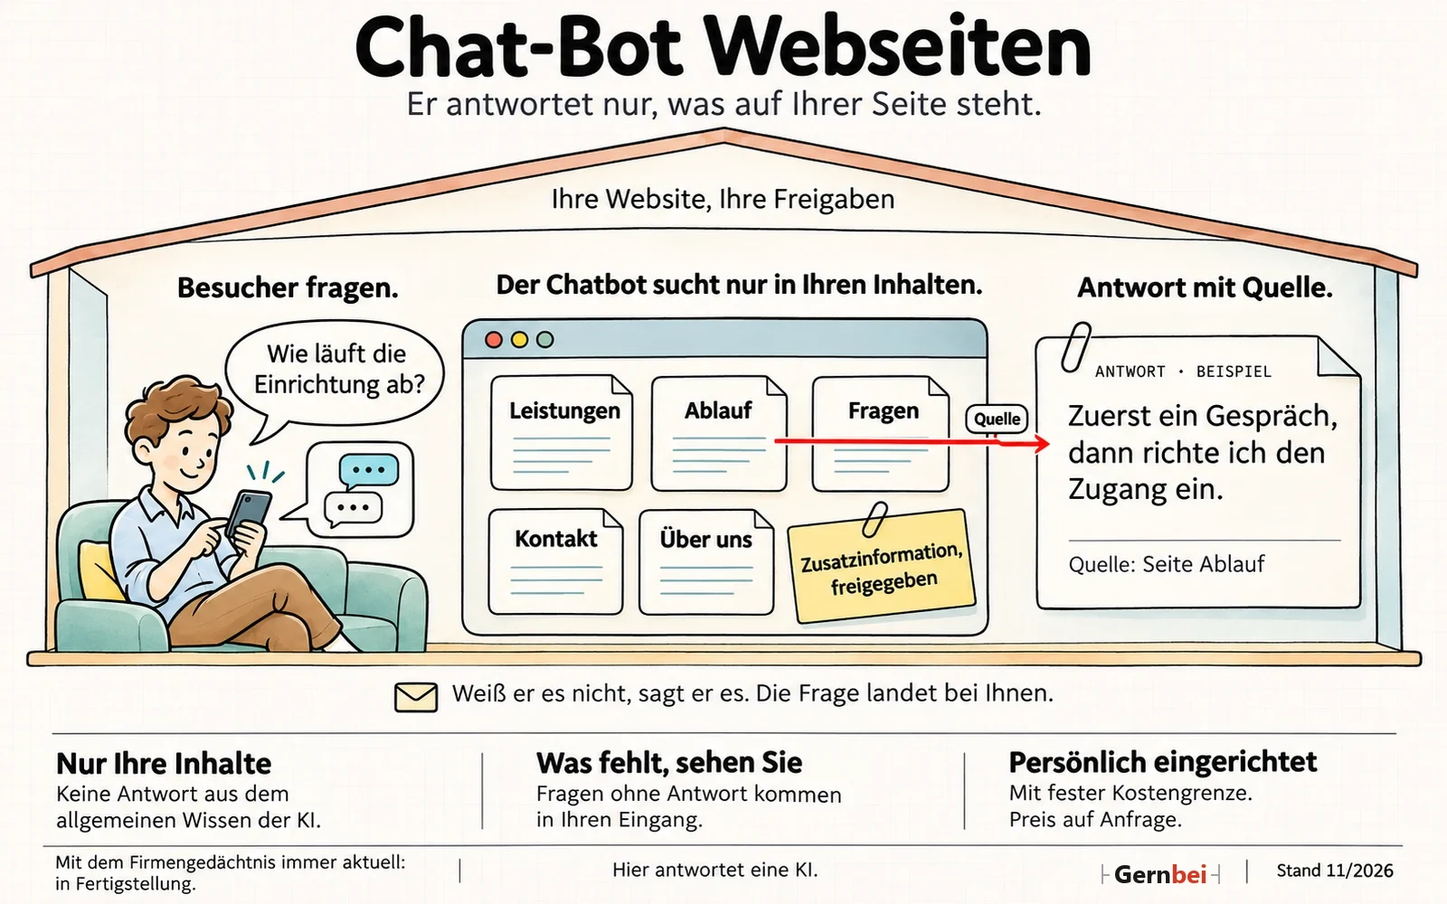
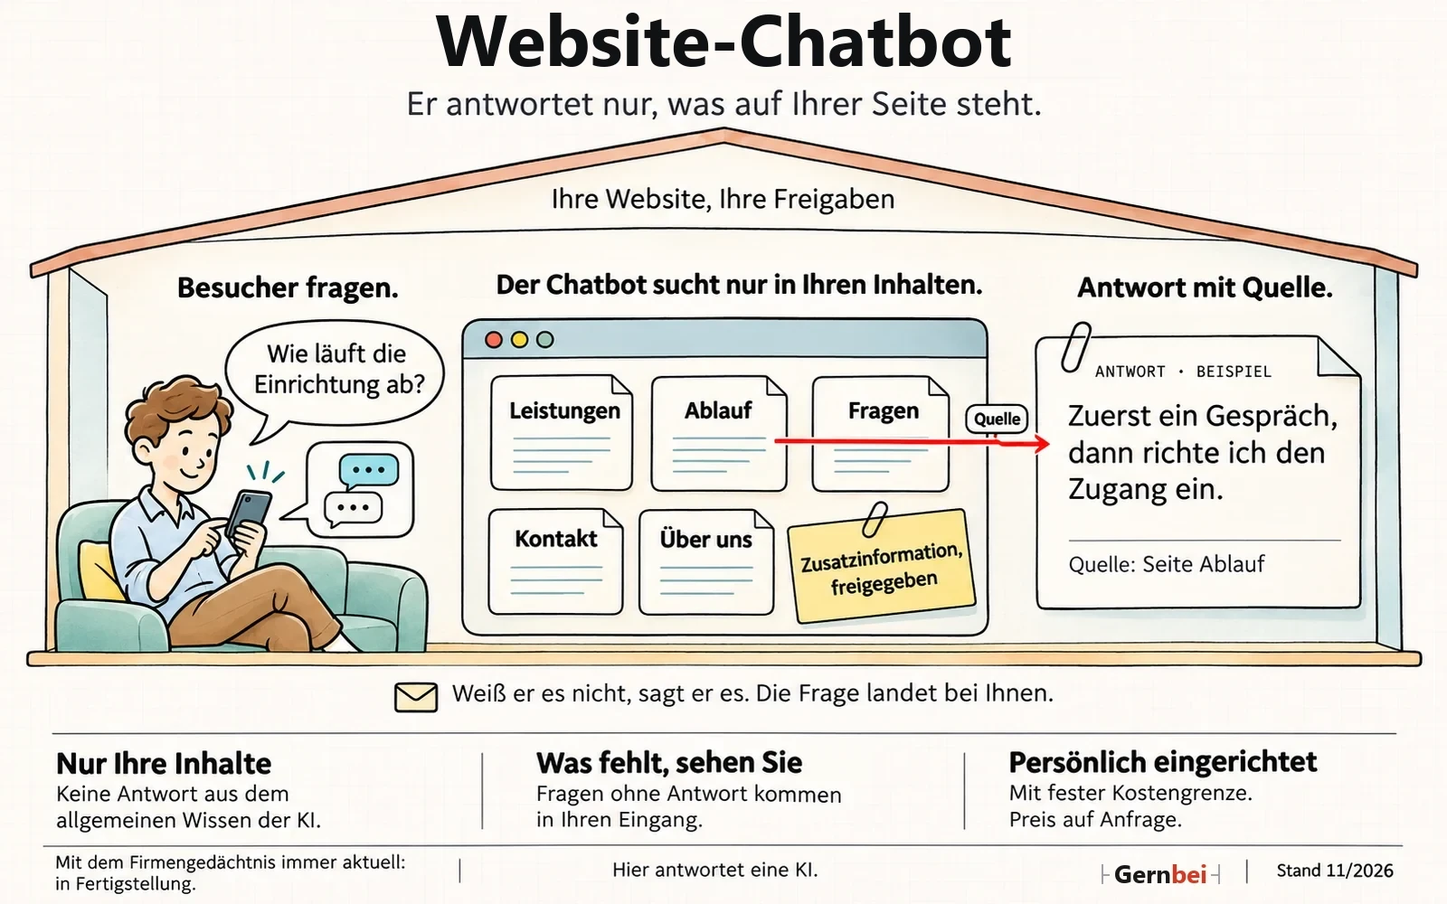
Website-Chatbot statt Chat-Bot Webseiten, SEO fuer alle Seiten (Kurt 12.11.2026: Chatbot gemaess Vorschlag, gleich die SEO verbessern)
Name auf Startseite, Chatbot- und Telefonseite, Titel im Systembild neu gesetzt.
SEO: Titel je Seite mit Suchbegriff und hoechstens 60 Zeichen, Beschreibung je Seite um 150 Zeichen,
neu fuer Rechner, Impressum, Datenschutz; canonical, Open Graph mit Vorschaubild 1200x630 aus dem
Sonnenhof-Gespraech, Twitter-Karte; strukturierte Daten: Betrieb (ProfessionalService) und WebSite
auf der Startseite, Service auf den fuenf Produktseiten, ohne Preise. sitemap.xml und robots.txt neu.
Geprueft: JSON-LD gueltig, Tags ausgeglichen, kein alter Name, Seiten bei 1280 und 375 Pixeln.
Nicht gepusht.

Changed region(s): [[0.2188, 0.0, 0.75, 0.093]]

diff --git a/chatbot.html b/chatbot.html
@@ -3,12 +3,24 @@
 <head>
 <meta charset="UTF-8">
 <meta name="viewport" content="width=device-width, initial-scale=1.0">
-<title>Chat-Bot Webseiten | Gernbei</title>
-<meta name="description" content="Ein Chatbot für Ihre Website, der nur aus Ihren Inhalten antwortet, jede Antwort mit Quelle. Bei einer neuen Frage nennt er Ihren Kontakt. Persönlich eingerichtet von Kurt König aus Würzburg.">
+<title>Website-Chatbot mit Antworten aus Ihren Inhalten | Gernbei</title>
+<meta name="description" content="Ein Chatbot für Ihre Website, der aus Ihren Inhalten antwortet, jede Antwort mit Quelle. Neue Fragen landen bei Ihnen. Persönlich eingerichtet aus Würzburg.">
+<link rel="canonical" href="https://gernbei.de/chatbot.html">
+<meta property="og:type" content="website">
+<meta property="og:locale" content="de_DE">
+<meta property="og:site_name" content="Gernbei">
+<meta property="og:title" content="Website-Chatbot mit Antworten aus Ihren Inhalten | Gernbei">
+<meta property="og:description" content="Ein Chatbot für Ihre Website, der aus Ihren Inhalten antwortet, jede Antwort mit Quelle. Neue Fragen landen bei Ihnen. Persönlich eingerichtet aus Würzburg.">
+<meta property="og:url" content="https://gernbei.de/chatbot.html">
+<meta property="og:image" content="https://gernbei.de/bilder/og-gernbei.jpg">
+<meta property="og:image:width" content="1200">
+<meta property="og:image:height" content="630">
+<meta name="twitter:card" content="summary_large_image">
+<script type="application/ld+json">{"@context": "https://schema.org", "@graph": [{"@type": "Service", "name": "Website-Chatbot", "serviceType": "Chatbot für Websites", "description": "Beantwortet Besucherfragen aus den Inhalten Ihrer Website, mit Quelle.", "provider": {"@id": "https://gernbei.de/#betrieb"}, "areaServed": "DE"}]}</script>
 <link rel="icon" href="favicon.svg" type="image/svg+xml">
 <link rel="stylesheet" href="haus.css">
 <style>
-/* Paar Chat-Bot Webseiten und KI-Telefonassistent, Entwurf 07.11.2026 */
+/* Paar Website-Chatbot und KI-Telefonassistent, Entwurf 07.11.2026 */
 .paar{display:flex;flex-wrap:wrap;gap:8px;margin:0 0 18px}
 .paar a{font-family:var(--mono);font-size:12px;letter-spacing:.04em;padding:6px 12px;border:1px solid var(--tinte);color:var(--tinte);text-decoration:none;background:#fff}
 .paar a[aria-current]{background:var(--tinte);color:#fff}
@@ -31,8 +43,8 @@
 <header class="hero mit-szene" id="top"><div class="wrap"><div class="raster">
   <div>
     <p class="ueber">Für Ihre Kunden · auf Ihrer Website</p>
-    <nav class="paar" aria-label="Für Ihre Kunden"><a href="chatbot.html" aria-current="page">Chat-Bot Webseiten</a><a href="telefon.html">KI-Telefonassistent</a></nav>
-    <h1>Chat-Bot Webseiten.</h1>
+    <nav class="paar" aria-label="Für Ihre Kunden"><a href="chatbot.html" aria-current="page">Website-Chatbot</a><a href="telefon.html">KI-Telefonassistent</a></nav>
+    <h1>Website-Chatbot.</h1>
     <p class="hand">Er antwortet nur, was auf Ihrer Seite steht.</p>
     <p class="lead dunkler" style="font-size:clamp(19px,2.1vw,23px);line-height:1.4">Ihre Besucher fragen in ganzen Sätzen, am Handy oder am Rechner. Der Chatbot antwortet aus Ihrer Website und aus dem, was Sie zusätzlich freigeben, und nennt die Seite, von der die Antwort stammt. Bei einer neuen Frage nennt er Ihren Kontakt.</p>
     <div class="knoepfe"><a class="knopf" href="index.html#kontakt">Preis anfragen</a><a class="knopf hell" href="#ausprobieren">Selbst ausprobieren</a></div>
@@ -84,7 +96,7 @@
   <p class="tafel-zeile" style="margin:16px auto 0;max-width:56rem"><b>Zwei Ausführungen:</b> Standard antwortet aus Ihrer Website und Ihren Freigaben. Professionell, zusammen mit dem Firmengedächtnis, bleibt von selbst aktuell und schlägt Antworten aus Ihrem internen Wissen vor: in Fertigstellung.</p>
   <details class="mehr" style="max-width:56rem;margin:24px auto 0">
     <summary>Im Überblick als Bild</summary>
-    <div class="mehr-inhalt"><div class="schirm"><a href="bilder/chatbot-webseiten-systembild.webp" title="Bild groß ansehen"><img src="bilder/chatbot-webseiten-systembild.webp" alt="Chat-Bot Webseiten im Überblick: Besucher fragen, der Chatbot sucht nur in Ihren Inhalten, Antwort mit Quelle" width="1600" height="1000" loading="lazy"></a></div></div>
+    <div class="mehr-inhalt"><div class="schirm"><a href="bilder/chatbot-webseiten-systembild.webp" title="Bild groß ansehen"><img src="bilder/chatbot-webseiten-systembild.webp" alt="Website-Chatbot im Überblick: Besucher fragen, der Chatbot sucht nur in Ihren Inhalten, Antwort mit Quelle" width="1600" height="1000" loading="lazy"></a></div></div>
   </details>
 </div></section>
 

diff --git a/telefon.html b/telefon.html
@@ -3,12 +3,24 @@
 <head>
 <meta charset="UTF-8">
 <meta name="viewport" content="width=device-width, initial-scale=1.0">
-<title>KI-Telefonassistent | Gernbei</title>
-<meta name="description" content="Der KI-Telefonassistent nimmt ab, während Sie beim Kunden sind. Er sagt zuerst, dass er eine KI ist, beantwortet Fragen aus Ihren Inhalten und nimmt Rückrufwünsche auf. Im Probebetrieb, für Ihren Betrieb auf Anfrage.">
+<title>KI-Telefonassistent für kleine Betriebe | Gernbei</title>
+<meta name="description" content="Der KI-Telefonassistent nimmt ab, während Sie beim Kunden sind. Er sagt, dass er eine KI ist, antwortet aus Ihren Inhalten und nimmt Rückrufwünsche auf.">
+<link rel="canonical" href="https://gernbei.de/telefon.html">
+<meta property="og:type" content="website">
+<meta property="og:locale" content="de_DE">
+<meta property="og:site_name" content="Gernbei">
+<meta property="og:title" content="KI-Telefonassistent für kleine Betriebe | Gernbei">
+<meta property="og:description" content="Der KI-Telefonassistent nimmt ab, während Sie beim Kunden sind. Er sagt, dass er eine KI ist, antwortet aus Ihren Inhalten und nimmt Rückrufwünsche auf.">
+<meta property="og:url" content="https://gernbei.de/telefon.html">
+<meta property="og:image" content="https://gernbei.de/bilder/og-gernbei.jpg">
+<meta property="og:image:width" content="1200">
+<meta property="og:image:height" content="630">
+<meta name="twitter:card" content="summary_large_image">
+<script type="application/ld+json">{"@context": "https://schema.org", "@graph": [{"@type": "Service", "name": "KI-Telefonassistent", "serviceType": "Telefonassistent mit KI", "description": "Nimmt Anrufe an, beantwortet Fragen aus Ihren Inhalten und nimmt Rückrufwünsche auf. Im Probebetrieb.", "provider": {"@id": "https://gernbei.de/#betrieb"}, "areaServed": "DE"}]}</script>
 <link rel="icon" href="favicon.svg" type="image/svg+xml">
 <link rel="stylesheet" href="haus.css">
 <style>
-/* Paar Chat-Bot Webseiten und KI-Telefonassistent, Entwurf 07.11.2026 */
+/* Paar Website-Chatbot und KI-Telefonassistent, Entwurf 07.11.2026 */
 .paar{display:flex;flex-wrap:wrap;gap:8px;margin:0 0 18px}
 .paar a{font-family:var(--mono);font-size:12px;letter-spacing:.04em;padding:6px 12px;border:1px solid var(--tinte);color:var(--tinte);text-decoration:none;background:#fff}
 .paar a[aria-current]{background:var(--tinte);color:#fff}
@@ -35,7 +47,7 @@
 <header class="hero mit-szene" id="top"><div class="wrap"><div class="raster">
   <div>
     <p class="ueber">Für Ihre Kunden · am Telefon</p>
-    <nav class="paar" aria-label="Für Ihre Kunden"><a href="chatbot.html">Chat-Bot Webseiten</a><a href="telefon.html" aria-current="page">KI-Telefonassistent</a></nav>
+    <nav class="paar" aria-label="Für Ihre Kunden"><a href="chatbot.html">Website-Chatbot</a><a href="telefon.html" aria-current="page">KI-Telefonassistent</a></nav>
     <h1>KI-Telefonassistent.</h1>
     <p class="hand">Er nimmt ab, während Sie beim Kunden sind.</p>
     <p class="lead dunkler" style="font-size:clamp(19px,2.1vw,23px);line-height:1.4">Er sagt zuerst, dass er eine KI ist, beantwortet Fragen aus den Inhalten Ihrer Website und nimmt Rückrufwünsche auf. Die Nummer liest er zur Kontrolle Ziffer für Ziffer vor. Den Rückrufwunsch sehen Sie mit Anliegen, Nummer und Wunschzeit.</p>
@@ -119,7 +131,7 @@
     <small>Offen gesagt</small>
     <p>Er läuft heute im Probebetrieb bei uns selbst. Weiterverbinden an Ihr Handy und die Meldung aufs Handy sind in Fertigstellung. Die Sprache verarbeiten amerikanische Anbieter. Gespeichert wird allein der Rückrufwunsch.</p>
   </div>
-  <p class="tafel-zeile" style="max-width:52rem">Für jede Firma mit Website, für sich allein oder zusammen mit Gernbei für Ihren Betrieb. Zusammen mit <a href="chatbot.html">Chat-Bot Webseiten</a> antwortet er aus denselben Inhalten, geschrieben und gesprochen.</p>
+  <p class="tafel-zeile" style="max-width:52rem">Für jede Firma mit Website, für sich allein oder zusammen mit Gernbei für Ihren Betrieb. Zusammen mit dem <a href="chatbot.html">Website-Chatbot</a> antwortet er aus denselben Inhalten, geschrieben und gesprochen.</p>
 </div></section>
 
 <footer class="fuss"><div class="wrap">

diff --git a/index.html b/index.html
@@ -3,8 +3,20 @@
 <head>
 <meta charset="UTF-8">
 <meta name="viewport" content="width=device-width, initial-scale=1.0">
-<title>Gernbei | Ihre KI-Assistenz, persönlich eingerichtet aus Würzburg</title>
-<meta name="description" content="Eine Assistenz, die Ihre Vorgänge kennt, Ihre Schreiben vorbereitet und sagt, woher sie es weiß. Für Handwerk, Dienstleister und Firmen, eingerichtet von Kurt König aus Würzburg.">
+<title>KI-Assistenz für Handwerk und Büro aus Würzburg | Gernbei</title>
+<meta name="description" content="Gernbei bereitet Angebote und Antworten vor und findet Ihr Firmenwissen wieder. Für Handwerk, Dienstleister und kleine Teams, eingerichtet aus Würzburg.">
+<link rel="canonical" href="https://gernbei.de/">
+<meta property="og:type" content="website">
+<meta property="og:locale" content="de_DE">
+<meta property="og:site_name" content="Gernbei">
+<meta property="og:title" content="KI-Assistenz für Handwerk und Büro aus Würzburg | Gernbei">
+<meta property="og:description" content="Gernbei bereitet Angebote und Antworten vor und findet Ihr Firmenwissen wieder. Für Handwerk, Dienstleister und kleine Teams, eingerichtet aus Würzburg.">
+<meta property="og:url" content="https://gernbei.de/">
+<meta property="og:image" content="https://gernbei.de/bilder/og-gernbei.jpg">
+<meta property="og:image:width" content="1200">
+<meta property="og:image:height" content="630">
+<meta name="twitter:card" content="summary_large_image">
+<script type="application/ld+json">{"@context": "https://schema.org", "@graph": [{"@type": "ProfessionalService", "@id": "https://gernbei.de/#betrieb", "name": "Gernbei", "url": "https://gernbei.de/", "logo": "https://gernbei.de/favicon.svg", "image": "https://gernbei.de/bilder/og-gernbei.jpg", "description": "KI-Assistenz für Handwerksbetriebe, Dienstleister und kleine Teams, persönlich eingerichtet von Kurt König aus Würzburg.", "founder": {"@type": "Person", "name": "Kurt König"}, "address": {"@type": "PostalAddress", "streetAddress": "Wittelsbacher Str. 2", "postalCode": "97074", "addressLocality": "Würzburg", "addressCountry": "DE"}, "telephone": "+49 931 45321005", "email": "hallo@gernbei.de", "areaServed": "DE"}, {"@type": "WebSite", "name": "Gernbei", "url": "https://gernbei.de/", "inLanguage": "de"}]}</script>
 <link rel="icon" href="favicon.svg" type="image/svg+xml">
 <link rel="stylesheet" href="haus.css">
 <link rel="stylesheet" href="startseite.css">
@@ -71,7 +83,7 @@
       <div class="kacheln">
         <a class="kachel" href="#p-chatbot">
           <svg class="zeichen" viewBox="0 0 32 32"><path d="M6 6h20a3 3 0 0 1 3 3v10a3 3 0 0 1-3 3H14l-6 5v-5H6a3 3 0 0 1-3-3V9a3 3 0 0 1 3-3z"/><path d="M10 12h12M10 16h8"/></svg>
-          <span class="name">Chat-Bot Webseiten</span>
+          <span class="name">Website-Chatbot</span>
           <span class="tut">Beantwortet Fragen auf Ihrer Website, mit Quelle.</span>
           <small>jede Website</small>
         </a>
@@ -207,7 +219,7 @@
     <p>Ihre Besucher fragen, er antwortet aus Ihren Inhalten, mit Quelle. Neue Fragen landen bei Ihnen.</p>
     <p class="zeile">Einzeln oder dazu</p>
     <p class="einladung">Welche Fragen stellen Ihre Besucher? <a href="#kontakt" data-thema="Es geht um den Chatbot für unsere Website.">Einsatz auf Ihrer Website besprechen →</a></p>
-    <a class="knopf hell" href="chatbot.html">Alles zu Chat-Bot Webseiten <svg viewBox="0 0 24 24"><path d="M5 12h14M12 5l7 7-7 7" stroke-linecap="round" stroke-linejoin="round"/></svg></a>
+    <a class="knopf hell" href="chatbot.html">Alles zum Website-Chatbot <svg viewBox="0 0 24 24"><path d="M5 12h14M12 5l7 7-7 7" stroke-linecap="round" stroke-linejoin="round"/></svg></a>
   </div>
   <div class="produkt-bild tusche">
     <div class="szene" data-szenen="chatbot">

diff --git a/firmengedaechtnis.html b/firmengedaechtnis.html
@@ -3,8 +3,20 @@
 <head>
 <meta charset="UTF-8">
 <meta name="viewport" content="width=device-width, initial-scale=1.0">
-<title>Gernbei Firmengedächtnis</title>
-<meta name="description" content="Was Ihr Büro weiß, an einem Ort, mit Quelle. Jede Person mit eigenem Zugang, ein gemeinsamer Bereich. Ein Arbeitsplatz sofort, das ganze Haus in rund drei Monaten, BAFA-förderfähig.">
+<title>Firmengedächtnis: Firmenwissen mit KI wiederfinden | Gernbei</title>
+<meta name="description" content="Was Ihr Büro weiß, an einem Ort, jede Antwort mit Quelle. Jede Person mit eigenem Zugang, ein gemeinsamer Bereich, Projekte mit eigenen Regeln. BAFA-förderfähig.">
+<link rel="canonical" href="https://gernbei.de/firmengedaechtnis.html">
+<meta property="og:type" content="website">
+<meta property="og:locale" content="de_DE">
+<meta property="og:site_name" content="Gernbei">
+<meta property="og:title" content="Firmengedächtnis: Firmenwissen mit KI wiederfinden | Gernbei">
+<meta property="og:description" content="Was Ihr Büro weiß, an einem Ort, jede Antwort mit Quelle. Jede Person mit eigenem Zugang, ein gemeinsamer Bereich, Projekte mit eigenen Regeln. BAFA-förderfähig.">
+<meta property="og:url" content="https://gernbei.de/firmengedaechtnis.html">
+<meta property="og:image" content="https://gernbei.de/bilder/og-gernbei.jpg">
+<meta property="og:image:width" content="1200">
+<meta property="og:image:height" content="630">
+<meta name="twitter:card" content="summary_large_image">
+<script type="application/ld+json">{"@context": "https://schema.org", "@graph": [{"@type": "Service", "name": "Gernbei Firmengedächtnis", "serviceType": "Wissensmanagement mit KI für Teams", "description": "Das ganze Team fragt in ganzen Sätzen und bekommt Antworten mit Verweis auf die Originaldatei.", "provider": {"@id": "https://gernbei.de/#betrieb"}, "areaServed": "DE"}]}</script>
 <link rel="icon" href="favicon.svg" type="image/svg+xml">
 <link rel="stylesheet" href="haus.css">
 </head>

diff --git a/dienstleister.html b/dienstleister.html
@@ -3,8 +3,20 @@
 <head>
 <meta charset="UTF-8">
 <meta name="viewport" content="width=device-width, initial-scale=1.0">
-<title>Gernbei für Dienstleister | Gernbei</title>
-<meta name="description" content="Für alle, die ihre Firma selbst tragen: Gernbei schreibt Angebote, Protokolle und Antworten, findet wieder, was zu einem Kunden gesagt wurde, und legt fertige Schreiben als Word-Datei ab. Abschicken tun Sie.">
+<title>KI-Assistenz für Selbständige und Dienstleister | Gernbei</title>
+<meta name="description" content="Gernbei schreibt Angebote, Protokolle und Antworten, findet wieder, was Sie einem Kunden zugesagt haben, und legt Word-Dateien ab. Abschicken tun Sie.">
+<link rel="canonical" href="https://gernbei.de/dienstleister.html">
+<meta property="og:type" content="website">
+<meta property="og:locale" content="de_DE">
+<meta property="og:site_name" content="Gernbei">
+<meta property="og:title" content="KI-Assistenz für Selbständige und Dienstleister | Gernbei">
+<meta property="og:description" content="Gernbei schreibt Angebote, Protokolle und Antworten, findet wieder, was Sie einem Kunden zugesagt haben, und legt Word-Dateien ab. Abschicken tun Sie.">
+<meta property="og:url" content="https://gernbei.de/dienstleister.html">
+<meta property="og:image" content="https://gernbei.de/bilder/og-gernbei.jpg">
+<meta property="og:image:width" content="1200">
+<meta property="og:image:height" content="630">
+<meta name="twitter:card" content="summary_large_image">
+<script type="application/ld+json">{"@context": "https://schema.org", "@graph": [{"@type": "Service", "name": "Gernbei für Dienstleister", "serviceType": "KI-Assistenz für Selbständige", "description": "Aus Stichworten werden Angebot, Protokoll und Antwort, jeder Kunde mit eigenem Stand und eigenen Regeln.", "provider": {"@id": "https://gernbei.de/#betrieb"}, "areaServed": "DE"}]}</script>
 <link rel="icon" href="favicon.svg" type="image/svg+xml">
 <link rel="stylesheet" href="haus.css">
 </head>

diff --git a/handwerk.html b/handwerk.html
@@ -3,8 +3,20 @@
 <head>
 <meta charset="UTF-8">
 <meta name="viewport" content="width=device-width, initial-scale=1.0">
-<title>Gernbei fürs Handwerk | Gernbei</title>
+<title>KI fürs Handwerk: Angebote und Regieberichte | Gernbei</title>
 <meta name="description" content="Für Handwerksbetriebe: Gernbei weiß, was Sie dem Kunden zugesagt haben, und schreibt Angebot, Regiebericht und Antwort als Entwurf. Sie schicken ab.">
+<link rel="canonical" href="https://gernbei.de/handwerk.html">
+<meta property="og:type" content="website">
+<meta property="og:locale" content="de_DE">
+<meta property="og:site_name" content="Gernbei">
+<meta property="og:title" content="KI fürs Handwerk: Angebote und Regieberichte | Gernbei">
+<meta property="og:description" content="Für Handwerksbetriebe: Gernbei weiß, was Sie dem Kunden zugesagt haben, und schreibt Angebot, Regiebericht und Antwort als Entwurf. Sie schicken ab.">
+<meta property="og:url" content="https://gernbei.de/handwerk.html">
+<meta property="og:image" content="https://gernbei.de/bilder/og-gernbei.jpg">
+<meta property="og:image:width" content="1200">
+<meta property="og:image:height" content="630">
+<meta name="twitter:card" content="summary_large_image">
+<script type="application/ld+json">{"@context": "https://schema.org", "@graph": [{"@type": "Service", "name": "Gernbei fürs Handwerk", "serviceType": "KI-Assistenz für Handwerksbetriebe", "description": "Aus Foto, Stichwort oder Sprachnachricht werden Angebot, Regiebericht und Kundenantwort als Entwurf.", "provider": {"@id": "https://gernbei.de/#betrieb"}, "areaServed": "DE"}]}</script>
 <link rel="icon" href="favicon.svg" type="image/svg+xml">
 <link rel="stylesheet" href="haus.css">
 </head>

diff --git a/fragen.html b/fragen.html
@@ -3,8 +3,19 @@
 <head>
 <meta charset="UTF-8">
 <meta name="viewport" content="width=device-width, initial-scale=1.0">
-<title>Fragen | Gernbei</title>
-<meta name="description" content="Häufige Fragen zu Gernbei fürs Handwerk, Gernbei für Dienstleister und dem Gernbei Firmengedächtnis: was Sie brauchen, was es kostet, wo Ihre Daten liegen, wie Sie Wissen aus ChatGPT mitnehmen und wie Sie das meiste aus Gernbei herausholen.">
+<title>Häufige Fragen zu Gernbei, Ihrer KI-Assistenz | Gernbei</title>
+<meta name="description" content="Häufige Fragen zu Gernbei: was Sie brauchen, was es kostet, wo Ihre Daten liegen und wie der Start mit Ihrer KI-Assistenz abläuft.">
+<link rel="canonical" href="https://gernbei.de/fragen.html">
+<meta property="og:type" content="website">
+<meta property="og:locale" content="de_DE">
+<meta property="og:site_name" content="Gernbei">
+<meta property="og:title" content="Häufige Fragen zu Gernbei, Ihrer KI-Assistenz | Gernbei">
+<meta property="og:description" content="Häufige Fragen zu Gernbei: was Sie brauchen, was es kostet, wo Ihre Daten liegen und wie der Start mit Ihrer KI-Assistenz abläuft.">
+<meta property="og:url" content="https://gernbei.de/fragen.html">
+<meta property="og:image" content="https://gernbei.de/bilder/og-gernbei.jpg">
+<meta property="og:image:width" content="1200">
+<meta property="og:image:height" content="630">
+<meta name="twitter:card" content="summary_large_image">
 <link rel="icon" href="favicon.svg" type="image/svg+xml">
 <link rel="stylesheet" href="haus.css">
 </head>

diff --git a/warum.html b/warum.html
@@ -3,8 +3,19 @@
 <head>
 <meta charset="UTF-8">
 <meta name="viewport" content="width=device-width, initial-scale=1.0">
-<title>Warum | Gernbei</title>
+<title>Wissensverlust im Betrieb: jeder hat einen Peter | Gernbei</title>
 <meta name="description" content="Jeder Betrieb hat einen Peter. Was es kostet, wenn Wissen nur in Köpfen steht, was ein Betrieb mit Gedächtnis wert ist, und fünf Fragen an jedes System.">
+<link rel="canonical" href="https://gernbei.de/warum.html">
+<meta property="og:type" content="website">
+<meta property="og:locale" content="de_DE">
+<meta property="og:site_name" content="Gernbei">
+<meta property="og:title" content="Wissensverlust im Betrieb: jeder hat einen Peter | Gernbei">
+<meta property="og:description" content="Jeder Betrieb hat einen Peter. Was es kostet, wenn Wissen nur in Köpfen steht, was ein Betrieb mit Gedächtnis wert ist, und fünf Fragen an jedes System.">
+<meta property="og:url" content="https://gernbei.de/warum.html">
+<meta property="og:image" content="https://gernbei.de/bilder/og-gernbei.jpg">
+<meta property="og:image:width" content="1200">
+<meta property="og:image:height" content="630">
+<meta name="twitter:card" content="summary_large_image">
 <link rel="icon" href="favicon.svg" type="image/svg+xml">
 <link rel="stylesheet" href="haus.css">
 </head>

diff --git a/rechner.html b/rechner.html
@@ -3,7 +3,19 @@
 <head>
 <meta charset="UTF-8">
 <meta name="viewport" content="width=device-width, initial-scale=1.0">
-<title>Wissensverlust-Rechner | Gernbei</title>
+<title>Wissensverlust-Rechner: was Suchzeit kostet | Gernbei</title>
+<meta name="description" content="Schätzen Sie mit Ihren eigenen Zahlen, was Suchzeit, Einarbeitung und Wissensverlust Ihren Betrieb im Jahr kosten. Mit erklärten Rechenannahmen.">
+<link rel="canonical" href="https://gernbei.de/rechner.html">
+<meta property="og:type" content="website">
+<meta property="og:locale" content="de_DE">
+<meta property="og:site_name" content="Gernbei">
+<meta property="og:title" content="Wissensverlust-Rechner: was Suchzeit kostet | Gernbei">
+<meta property="og:description" content="Schätzen Sie mit Ihren eigenen Zahlen, was Suchzeit, Einarbeitung und Wissensverlust Ihren Betrieb im Jahr kosten. Mit erklärten Rechenannahmen.">
+<meta property="og:url" content="https://gernbei.de/rechner.html">
+<meta property="og:image" content="https://gernbei.de/bilder/og-gernbei.jpg">
+<meta property="og:image:width" content="1200">
+<meta property="og:image:height" content="630">
+<meta name="twitter:card" content="summary_large_image">
 <link rel="icon" href="favicon.svg" type="image/svg+xml">
 <link rel="stylesheet" href="haus.css">
 <style>

diff --git a/datenschutz.html b/datenschutz.html
@@ -4,6 +4,18 @@
 <meta charset="UTF-8">
 <meta name="viewport" content="width=device-width, initial-scale=1.0">
 <title>Datenschutzerklärung | Gernbei</title>
+<meta name="description" content="Datenschutzerklärung der Website gernbei.de von Kurt König, Würzburg.">
+<link rel="canonical" href="https://gernbei.de/datenschutz.html">
+<meta property="og:type" content="website">
+<meta property="og:locale" content="de_DE">
+<meta property="og:site_name" content="Gernbei">
+<meta property="og:title" content="Datenschutzerklärung | Gernbei">
+<meta property="og:description" content="Datenschutzerklärung der Website gernbei.de von Kurt König, Würzburg.">
+<meta property="og:url" content="https://gernbei.de/datenschutz.html">
+<meta property="og:image" content="https://gernbei.de/bilder/og-gernbei.jpg">
+<meta property="og:image:width" content="1200">
+<meta property="og:image:height" content="630">
+<meta name="twitter:card" content="summary_large_image">
 <link rel="icon" href="favicon.svg" type="image/svg+xml">
 <link rel="stylesheet" href="haus.css">
 <style>

diff --git a/impressum.html b/impressum.html
@@ -4,6 +4,18 @@
 <meta charset="UTF-8">
 <meta name="viewport" content="width=device-width, initial-scale=1.0">
 <title>Impressum | Gernbei</title>
+<meta name="description" content="Impressum von Gernbei, Kurt König, Wittelsbacher Str. 2, 97074 Würzburg.">
+<link rel="canonical" href="https://gernbei.de/impressum.html">
+<meta property="og:type" content="website">
+<meta property="og:locale" content="de_DE">
+<meta property="og:site_name" content="Gernbei">
+<meta property="og:title" content="Impressum | Gernbei">
+<meta property="og:description" content="Impressum von Gernbei, Kurt König, Wittelsbacher Str. 2, 97074 Würzburg.">
+<meta property="og:url" content="https://gernbei.de/impressum.html">
+<meta property="og:image" content="https://gernbei.de/bilder/og-gernbei.jpg">
+<meta property="og:image:width" content="1200">
+<meta property="og:image:height" content="630">
+<meta name="twitter:card" content="summary_large_image">
 <link rel="icon" href="favicon.svg" type="image/svg+xml">
 <link rel="stylesheet" href="haus.css">
 <style>
